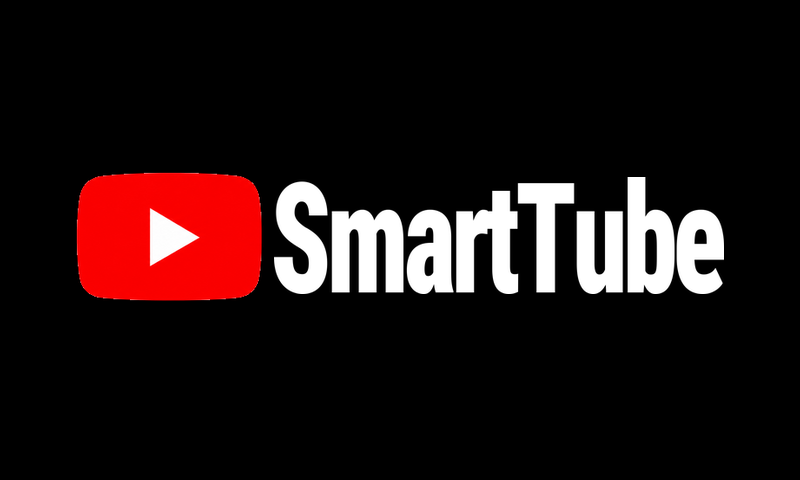
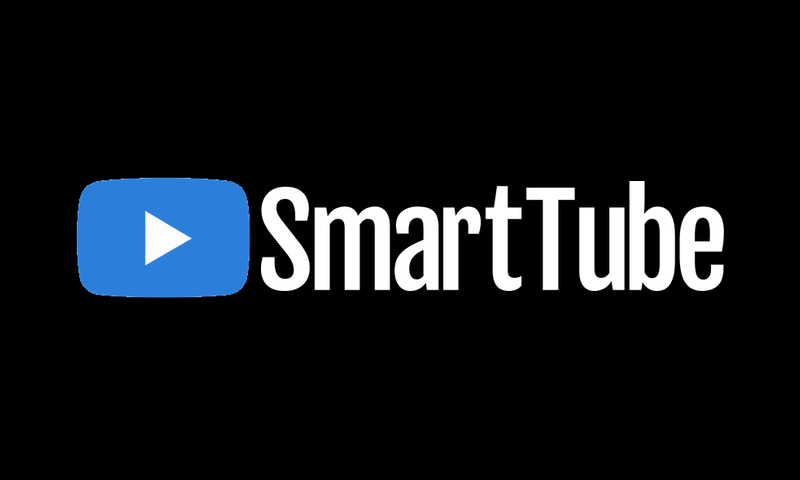
SmartTube tile: blue button, Fjalla One evenly spaced, between FirePlayer and YouTube
- The tile: YouTube's on black, its play button in YouTube's exact shape in blue
  (#2B7FDA), and SmartTube in white Fjalla One, every letter the same distance from
  the next (tools/smarttube); two layers, as YouTube's
- It opens SmartTube itself (its search screen is TV-launchable too), and shows only
  when SmartTube is installed
- A TV's own apps.json gains the apps added to Glass Home's order since it was
  written, each after the app it follows, so SmartTube lands after FirePlayer
  without ADB

Claude-Session: https://claude.ai/code/session_01CeAGQeVUTN7JW2QY8xeSR9

Changed region(s): [[0.0938, 0.3438, 0.9062, 0.625]]

diff --git a/launcher/app/src/test/java/app/glasshome/launcher/SmartTubeTileTest.java b/launcher/app/src/test/java/app/glasshome/launcher/SmartTubeTileTest.java
@@ -1,6 +1,7 @@
 package app.glasshome.launcher;
 
 import static org.junit.Assert.assertEquals;
+import static org.junit.Assert.assertFalse;
 import static org.robolectric.Shadows.shadowOf;
 
 import android.view.KeyEvent;
@@ -13,25 +14,38 @@ import org.robolectric.annotation.Config;
 import org.robolectric.annotation.GraphicsMode;
 import org.robolectric.annotation.LooperMode;
 
-/** SmartTube, when installed, has its own tile: YouTube's, on black, with "SmartTube" in white. */
+/** SmartTube, when installed, has its own tile (YouTube's, on black, its button blue), between FirePlayer and YouTube. */
 @RunWith(RobolectricTestRunner.class)
 @GraphicsMode(GraphicsMode.Mode.NATIVE)
 @LooperMode(LooperMode.Mode.PAUSED)
 @Config(sdk = 30, qualifiers = "w960dp-h540dp-land-xhdpi")
 public class SmartTubeTileTest {
     @Test
-    public void smartTubeTileComesRightAfterYouTube() throws Exception {
+    public void smartTubeTileComesBetweenFirePlayerAndYouTube() throws Exception {
         shadowOf(RuntimeEnvironment.getApplication().getPackageManager())
                 .addResolveInfoForIntent(TestHome.LEANBACK, TestHome.resolve("org.smarttube.stable", "SmartTube"));
         TestHome h = new TestHome();
         h.loadSampleWeather();
-        // Down to the second row, then along to YouTube and the tile after it
+        // Down to the second row, then along to FirePlayer and the tiles after it
         h.press(KeyEvent.KEYCODE_DPAD_DOWN);
-        while (!"com.amazon.firetv.youtube".equals(h.focusedKey())) h.press(KeyEvent.KEYCODE_DPAD_RIGHT);
+        while (!"app.fireplayer".equals(h.focusedKey())) h.press(KeyEvent.KEYCODE_DPAD_RIGHT);
         h.press(KeyEvent.KEYCODE_DPAD_RIGHT);
         assertEquals("org.smarttube.stable", h.focusedKey());
+        h.press(KeyEvent.KEYCODE_DPAD_RIGHT);
+        assertEquals("com.amazon.firetv.youtube", h.focusedKey());
+        h.press(KeyEvent.KEYCODE_DPAD_LEFT);
         TestHome.advance(Ui.HERO_DWELL_MS + 50);
         TestHome.settle();
         h.capture("smarttube-tile.png");
+    }
+
+    /** Not installed, no tile: it is in Glass Home's order, but the order only places apps that are there. */
+    @Test
+    public void noTileWithoutSmartTube() throws Exception {
+        TestHome h = new TestHome();
+        AppAdapter apps = (AppAdapter) h.grid.getAdapter();
+        for (int i = 0; i < apps.getItemCount(); i++) {
+            assertFalse("org.smarttube.stable".equals(apps.get(i).key));
+        }
     }
 }

diff --git a/tools/smarttube/tile_src.py b/tools/smarttube/tile_src.py
@@ -1,0 +1,39 @@
+# Source picture for Glass Home's SmartTube tile: YouTube's tile on black, the play button in
+# exactly YouTube's shape but blue, and the SmartTube wordmark (wordmark.py) in white.
+# Usage: tile_src.py <youtube src png> <wordmark png> <blue hex> <out png>
+import sys, numpy as np
+from PIL import Image
+from scipy.ndimage import binary_fill_holes
+yt_path, wm_path, blue_hex, out_path = sys.argv[1:5]
+src = np.asarray(Image.open(yt_path).convert('RGB')).astype(np.float32) / 255
+H, W = src.shape[:2]
+blue = np.array([int(blue_hex[i:i + 2], 16) for i in (0, 2, 4)], np.float32) / 255
+grey = src.mean(2)
+# The button: pure red on white, so green measures how much white each pixel has
+core = binary_fill_holes(src[..., 1] < 0.5); core[:, 295:] = False
+alpha = np.where(core, 1.0, np.clip(1 - src[..., 1], 0, 1)); alpha[:, 295:] = 0; alpha[alpha < 0.04] = 0
+white = np.clip(src[..., 1], 0, 1)[..., None]                # inside: the triangle's white, blended at its edges
+rgb = np.where(core[..., None], blue * (1 - white) + white, blue)
+ys, xs = np.where(alpha > 0)
+bb = (xs.min(), ys.min(), xs.max() + 1, ys.max() + 1)
+button = np.dstack([rgb, alpha])[bb[1]:bb[3], bb[0]:bb[2]]
+# YouTube's layout: wordmark box 302..722 x 168..302, a 17 px gap after the button
+wm = np.asarray(Image.open(wm_path)).astype(np.float32) / 255
+gap = 302 - bb[2]
+total = button.shape[1] + gap + wm.shape[1]
+k = min(1.0, (722 - bb[0] + 1) / total)                      # within YouTube's logo width
+def scaled(a, mode):
+    im = Image.fromarray(np.uint8(np.clip(a, 0, 1) * 255), mode)
+    return np.asarray(im.resize((round(im.width * k), round(im.height * k)), Image.LANCZOS)).astype(np.float32) / 255
+bt = scaled(button, 'RGBA'); wmk = scaled(wm, 'L')
+out = np.zeros((H, W, 3), np.float32)
+def paste(c, a, x, y):
+    h, w = a.shape
+    out[y:y + h, x:x + w] = out[y:y + h, x:x + w] * (1 - a[..., None]) + c * a[..., None]
+tw = bt.shape[1] + round(gap * k) + wmk.shape[1]
+x0 = (W - tw) // 2
+cy = (bb[1] + bb[3]) / 2
+paste(bt[..., :3], bt[..., 3], x0, int(round(cy - bt.shape[0] / 2)))
+wy = int(round(cy + (168 - cy) * k))                          # the wordmark's top, as YouTube's, about the centre
+paste(np.ones(wmk.shape + (3,), np.float32), wmk, x0 + bt.shape[1] + round(gap * k), wy)
+Image.fromarray(np.uint8(np.clip(out, 0, 1) * 255), 'RGB').save(out_path)

diff --git a/tools/smarttube/wordmark.py b/tools/smarttube/wordmark.py
@@ -1,0 +1,40 @@
+# "SmartTube" in white for Glass Home's SmartTube tile: Fjalla One (OFL) in its own proportions,
+# every letter the same visible distance from the next (ink to ink), a little tighter than the
+# font sets them, scaled to the height of YouTube's wordmark (measured from YouTube's tile).
+# Writes an alpha PNG. Usage: wordmark.py <youtube src png> <Fjalla One ttf> <out png> [gap, of the cap height]
+import sys, numpy as np
+from PIL import Image, ImageDraw, ImageFont
+yt_path, font_path, out_path = sys.argv[1:4]
+GAP = float(sys.argv[4]) if len(sys.argv) > 4 else 0.045
+g = np.asarray(Image.open(yt_path).convert('L')).astype(np.float32) / 255
+ink = (1 - g[168:303, 302:723]) > 0.5
+rows = np.where(ink.any(axis=1))[0]
+target_h = rows.max() - rows.min() + 1                 # YouTube's wordmark, top of the T/b to the baseline
+size = 600
+f = ImageFont.truetype(font_path, size)
+asc, desc = f.getmetrics()
+glyphs = []
+for c in 'SmartTube':
+    im = Image.new('L', (size * 2, size * 2), 0)
+    ImageDraw.Draw(im).text((size // 2, 0), c, font=f, fill=255)
+    a = np.asarray(im).astype(np.float32) / 255
+    cols = np.where(a.max(axis=0) > 0.02)[0]
+    glyphs.append(a[:, cols.min():cols.max() + 1])     # ink width only, its height on the shared baseline
+cap = None
+t_rows = np.where(glyphs[5].max(axis=1) > 0.5)[0]      # the T
+cap = t_rows.max() - t_rows.min() + 1
+gap = GAP * cap
+width = int(sum(gl.shape[1] for gl in glyphs) + gap * (len(glyphs) - 1)) + 2
+out = np.zeros((glyphs[0].shape[0], width), np.float32)
+x = 0.0
+for gl in glyphs:
+    xi = int(round(x))
+    out[:, xi:xi + gl.shape[1]] = np.maximum(out[:, xi:xi + gl.shape[1]], gl)
+    x += gl.shape[1] + gap
+rs = np.where(out.max(axis=1) > 0.02)[0]; cs = np.where(out.max(axis=0) > 0.02)[0]
+out = out[rs.min():rs.max() + 1, cs.min():cs.max() + 1]
+im = Image.fromarray(np.uint8(out * 255), 'L')
+k = target_h / im.height
+im = im.resize((round(im.width * k), target_h), Image.LANCZOS)
+im.save(out_path)
+print('wordmark', im.width, 'x', im.height, 'gap', round(gap * k, 1), 'px')

diff --git a/launcher/app/src/test/java/app/glasshome/launcher/HomeConfigTest.java b/launcher/app/src/test/java/app/glasshome/launcher/HomeConfigTest.java
@@ -1,0 +1,50 @@
+package app.glasshome.launcher;
+
+import static org.junit.Assert.assertEquals;
+
+import android.app.Application;
+
+import java.io.File;
+import java.io.FileOutputStream;
+import java.nio.charset.StandardCharsets;
+import java.util.Arrays;
+
+import org.junit.After;
+import org.junit.Test;
+import org.junit.runner.RunWith;
+import org.robolectric.RobolectricTestRunner;
+import org.robolectric.RuntimeEnvironment;
+import org.robolectric.annotation.Config;
+
+/** A TV's own apps.json (written when it was set up) gains the apps added to Glass Home's order since, in place. */
+@RunWith(RobolectricTestRunner.class)
+@Config(sdk = 30)
+public class HomeConfigTest {
+    private File copy() {
+        return new File(RuntimeEnvironment.getApplication().getFilesDir(), "apps.json");
+    }
+
+    @After
+    public void remove() {
+        copy().delete();
+    }
+
+    @Test
+    public void newAppsTakeTheirPlaceInAnOlderCopy() throws Exception {
+        Application app = RuntimeEnvironment.getApplication();
+        // A TV's copy from before SmartTube: Glass Home's order then, rearranged by its owner (YouTube first)
+        java.util.List<String> then = new java.util.ArrayList<>(HomeConfig.load(app).order);
+        then.remove("org.smarttube.stable");
+        then.remove("com.amazon.firetv.youtube");
+        then.add(0, "com.amazon.firetv.youtube");
+        org.json.JSONObject json = new org.json.JSONObject().put("tmdb_api_key", "x").put("order", new org.json.JSONArray(then));
+        try (FileOutputStream out = new FileOutputStream(copy())) {
+            out.write(json.toString().getBytes(StandardCharsets.UTF_8));
+        }
+        HomeConfig config = HomeConfig.load(app);
+        java.util.List<String> expected = new java.util.ArrayList<>(then);
+        expected.add(expected.indexOf("app.fireplayer") + 1, "org.smarttube.stable");
+        assertEquals("the owner's order kept; SmartTube after FirePlayer, as in Glass Home's own", expected, config.order);
+        assertEquals("x", config.tmdbApiKey);
+    }
+}

diff --git a/launcher/app/src/main/java/app/glasshome/launcher/HomeConfig.java b/launcher/app/src/main/java/app/glasshome/launcher/HomeConfig.java
@@ -50,7 +50,15 @@ final class HomeConfig {
         File[] custom = {new File(context.getFilesDir(), "apps.json"), external == null ? null : new File(external, "apps.json")};
         try {
             for (File f : custom) {
-                if (f != null && f.isFile()) return new HomeConfig(new JSONObject(read(new FileInputStream(f))));
+                if (f != null && f.isFile()) {
+                    HomeConfig config = new HomeConfig(new JSONObject(read(new FileInputStream(f))));
+                    try {
+                        config.placeNewApps(new HomeConfig(new JSONObject(read(context.getAssets().open("apps.json")))).order);
+                    } catch (Exception e) {
+                        // the copy's own order stands
+                    }
+                    return config;
+                }
             }
             return new HomeConfig(new JSONObject(read(context.getAssets().open("apps.json"))));
         } catch (Exception e) {
@@ -59,6 +67,27 @@ final class HomeConfig {
             } catch (Exception fatal) {
                 return new HomeConfig(new JSONObject());
             }
+        }
+    }
+
+    /**
+     * A copy's order dates from when it was written: apps the bundled order has gained since
+     * (SmartTube, after FirePlayer) take their place in it, after the app they follow there, rather
+     * than at the end with the apps nobody placed.
+     */
+    void placeNewApps(List<String> bundled) {
+        for (int i = 0; i < bundled.size(); i++) {
+            String app = bundled.get(i);
+            if (order.contains(app)) continue;
+            int at = 0;
+            for (int j = i - 1; j >= 0; j--) {
+                int k = order.indexOf(bundled.get(j));
+                if (k >= 0) {
+                    at = k + 1;
+                    break;
+                }
+            }
+            order.add(at, app);
         }
     }
 

diff --git a/launcher/app/src/main/java/app/glasshome/launcher/AppRepository.java b/launcher/app/src/main/java/app/glasshome/launcher/AppRepository.java
@@ -102,12 +102,17 @@ final class AppRepository {
                 return new Intent("com.amazon.venezia.ade.FEATURED_LAUNCH").setPackage(pkg);
             case LIVE_TV:
                 return new Intent(Intent.ACTION_VIEW, Uri.parse("livetv://showEpg")).setPackage(pkg);
+            case SMARTTUBE:
+                // Its search screen is TV-launchable too: the tile opens the app itself
+                return new Intent(Intent.ACTION_MAIN).addCategory(Intent.CATEGORY_LEANBACK_LAUNCHER)
+                        .setClassName(pkg, "com.liskovsoft.smartyoutubetv2.tv.ui.main.SplashActivity");
             default:
                 return null;
         }
     }
 
     private static final String LIVE_TV = "com.amazon.tv.livetv";
+    private static final String SMARTTUBE = "org.smarttube.stable";
 
     /**
      * Fire TV's Settings. Android TV's settings intent opens Fire OS's settings screen directly, in

diff --git a/tools/smarttube/README.md b/tools/smarttube/README.md
@@ -1,0 +1,11 @@
+# SmartTube tile source
+
+`icon-src/org.smarttube.stable.png` is YouTube's tile (`icon-src/com.amazon.firetv.youtube.png`) on
+black, its play button in YouTube's exact shape but blue (#2B7FDA), and "SmartTube" in white Fjalla One
+(Google Fonts, SIL OFL), each letter the same distance from the next, at the height of YouTube's wordmark.
+The font is only used to draw the picture; Glass Home does not include it.
+
+    python3 wordmark.py ../icon-src/com.amazon.firetv.youtube.png FjallaOne-Regular.ttf wordmark.png 0.045
+    python3 tile_src.py ../icon-src/com.amazon.firetv.youtube.png wordmark.png 2B7FDA ../icon-src/org.smarttube.stable.png
+
+Then `make_layers.py` builds its layers, as it does YouTube's.
